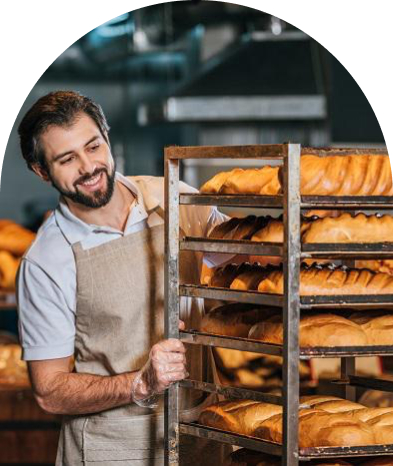
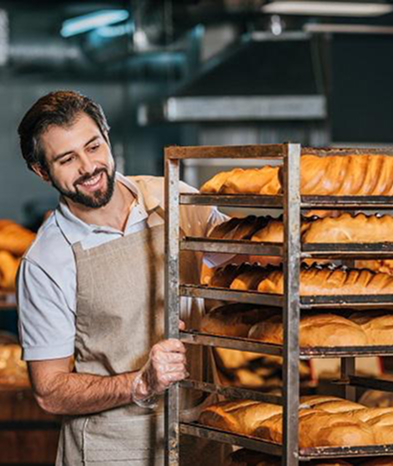
Style: add backgrounds images and shadow

diff --git a/css/style.css b/css/style.css
@@ -30,9 +30,10 @@
 :root {
   --color-primary-dark: #31261a;
   --color-primary-light: #faf4ea;
+  --color-secondary-brown: #a18268;
   --color-brand-dark: #465929;
-  --color-brand-light: #819b57;
-  --color-brown: #a18268;
+  --color-brand-normal: #819b57;
+  --color-brand-light: #cfcfbc;
 }
 
 /* Base */
@@ -42,6 +43,7 @@
 
 body {
   color: var(--color-primary-dark);
+  background-color: var(--color-primary-light);
   font-family: "Poppins", sans-serif;
   font-size: 18px;
   font-weight: 400;
@@ -93,8 +95,8 @@ ul {
   padding: 16px 32px;
   color: var(--color-primary-light);
   font-weight: 600;
-  border: 2px solid var(--color-brand-light);
-  background: var(--color-brand-light);
+  border: 2px solid var(--color-brand-normal);
+  background: var(--color-brand-normal);
   border-radius: 8px;
   cursor: pointer;
 }
@@ -111,7 +113,7 @@ ul {
 }
 
 .link:hover {
-  color: var(--color-brand-light);
+  color: var(--color-brand-normal);
 }
 
 /* Header */
@@ -138,6 +140,10 @@ ul {
 /* Hero section */
 .hero-section {
   padding: 272px 0;
+  background-image: url(../img/hero-section-bg.jpg);
+  background-repeat: no-repeat;
+  background-position: center top;
+  background-size: cover;
 }
 
 .hero-title {
@@ -149,13 +155,13 @@ ul {
 }
 
 .hero-title .accent {
-  color: var(--color-brand-light);
+  color: var(--color-brand-normal);
 }
 
 /* Advantages section */
 .advantages-section {
   padding: 16px 0;
-  background-color: var(--color-brand-light);
+  background-color: var(--color-brand-normal);
 }
 
 .advantages-list {
@@ -171,10 +177,13 @@ ul {
 }
 
 .section-title {
-  color: var(--color-primary-dark);
   font-size: 64px;
   font-weight: 900;
   line-height: 1.3;
+}
+
+.section-title.centered {
+  text-align: center;
 }
 
 .section-title .accent {
@@ -201,7 +210,7 @@ ul {
 }
 
 .traditions-text .brand {
-  color: var(--color-brand-light);
+  color: var(--color-brand-normal);
   font-weight: 600;
 }
 
@@ -215,9 +224,23 @@ ul {
 
 /* Chefs section */
 .chefs-title {
-  margin-bottom: 80px;
+  max-width: 540px; /* 520 */
+  margin: 0 auto 80px;
 }
 
+.chefs-title::before,
+.chefs-title::after {
+  display: block;
+  width: 352px;
+  border: 2px solid var(--color-brand-light);
+  content: "";
+}
+
+.chef-photo {
+  border-radius: 4px 4px 4px 200px;
+  box-shadow: -16px 16px 0 0 var(--color-primary-light),
+    -16px 16px 0 2px var(--color-secondary-brown);
+}
 .chef-title {
   margin-bottom: 16px;
   font-size: 40px;
@@ -225,18 +248,25 @@ ul {
 }
 
 /* Formats section */
-.formats-list{
+.formats-list {
   display: flex;
   flex-wrap: wrap;
   gap: 20px;
 }
 
-.formats-item{
+.formats-item {
   flex-basis: calc(((100% - 40px) / 3));
 }
 
 .format-card {
+  height: 444px;
   padding: 24px;
+  background-image: linear-gradient(
+    180deg,
+    rgba(49, 38, 26, 0) 55.21%,
+    rgba(49, 38, 26, 0.71) 72.92%,
+    #31261a 100%
+  );
   border: 1px solid rgb(11, 118, 118);
   border-radius: 16px;
 }
@@ -273,10 +303,18 @@ ul {
 }
 
 .address-link:hover {
-  color: var(--color-brand-light);
+  color: var(--color-brand-normal);
 }
 
 .address-copyright-text {
   color: var(--color-brown);
   font-style: 14px;
+}
+
+.footer {
+  background-color: var(--color-primary-dark);
+  background-image: url(../img/footer-bg.png);
+  background-repeat: no-repeat;
+  background-size: cover;
+  background-position: center;
 }

diff --git a/index.html b/index.html
@@ -75,13 +75,13 @@
       </section>
       <section class="section" id="chefs-section">
         <div class="container">
-          <h2 class="chefs-title section-title">
-            Наші найкращі <span>шеф-кухарі</span>
+          <h2 class="chefs-title section-title centered">
+            Наші найкращі <span class="accent">шеф -    кухарі</span>
           </h2>
           <ul>
             <li>
               <article>
-                <img src="./img/Nastia.jpg" alt="Дівчина з посмішкою" />
+                <img class="chef-photo" src="./img/nastia.jpg" alt="Nastia chef" />
                 <h3 class="chef-title">Настя</h3>
                 <p>Привіт, я Настя!</p>
                 <p>Вже 10 років, я свтілюю у життя цікаві та смачні ідеї.</p>
@@ -90,6 +90,7 @@
             </li>
             <li>
               <article>
+                <img class="chef-photo" src="./img/vlad.jpg" alt="Vlad chef" />
                 <h3 class="chef-title">Влад</h3>
                 <p>Привіт, я Влад!</p>
                 <p>
@@ -104,7 +105,7 @@
       </section>
       <section class="section" id="formats-section">
         <div class="container">
-          <h2 class="formats-title section-title">Формати</h2>
+          <h2 class="formats-title section-title centered">Формати</h2>
           <ul class="formats-list">
             <li class="formats-item">
               <article class="format-card">
@@ -167,7 +168,7 @@
         </div>
       </section>
     </main>
-    <footer>
+    <footer class="footer">
       <div class="container">
         <nav>
           <a href="#">
